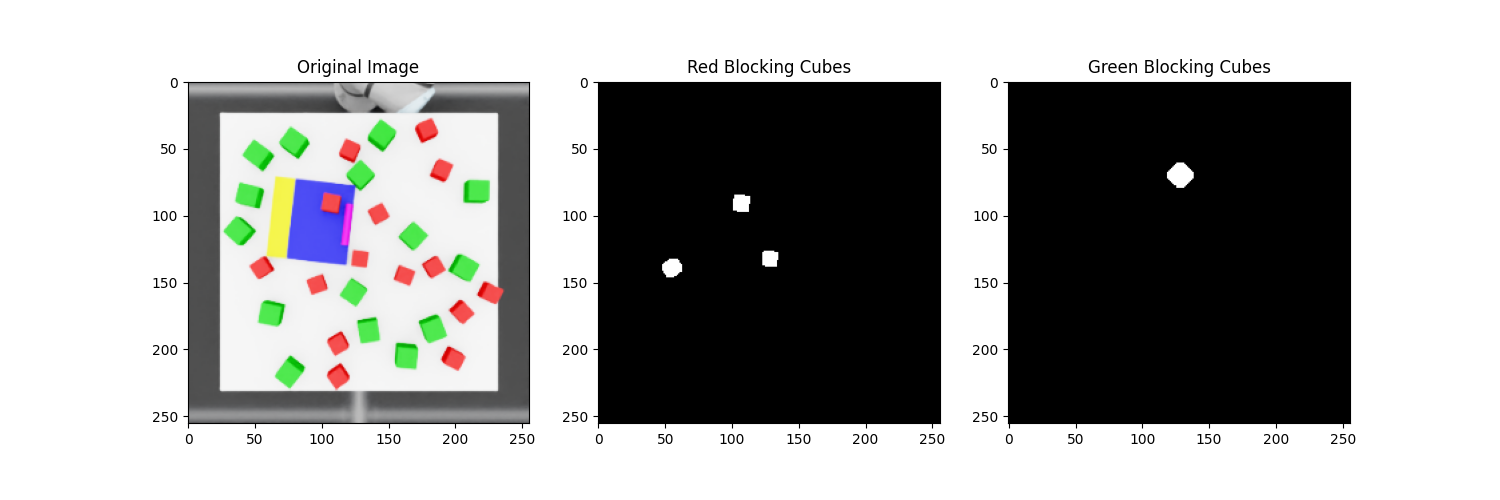
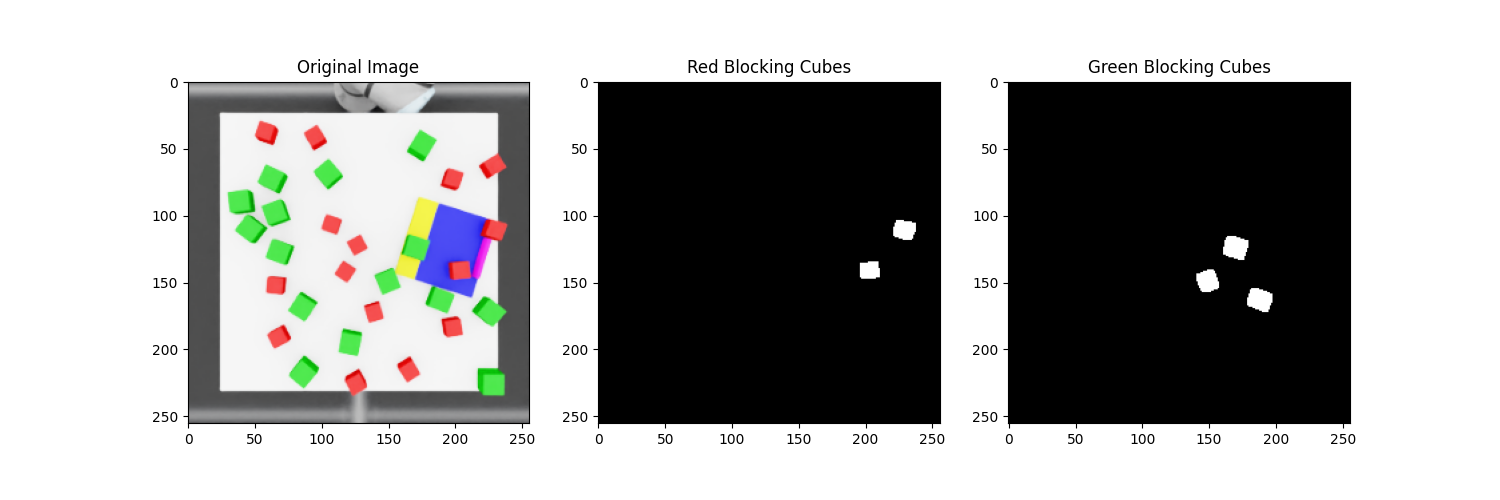
update final

diff --git a/final/run.py b/final/run.py
@@ -81,9 +81,10 @@ class Experiment:
         self.robot_pos = self.robot_pose[:3]
         self.robot_quat = self.robot_pose[3:]
 
-        self.gripper_open_val = 0.0
-        self.gripper_close_val = 0.04 # This is just a guess
-
+        self.gripper_open_val = 0.04
+        self.gripper_close_val = 0.0 # This is just a guess
+        
+ 
 
     def move_robot_joint (self, target_joint_pos, target_gripper_pos, count = 10, time_for_residual_movement = 5):
         '''
@@ -257,6 +258,14 @@ class Experiment:
         '''
         You code goes here.
         '''
+    
+        # Reset the environment (Relies on default states defined in task_envs.py)
+        self.scene.reset()
+        
+        # Update internal robot pose trackers after reset
+        self.robot_pose = self.scene['ur5e'].data.body_state_w[0, self.scene['ur5e'].find_bodies(self.ik_body)[0][0], :7].detach().cpu().numpy()
+        self.robot_pos = self.robot_pose[:3]
+        self.robot_quat = self.robot_pose[3:]
         # birdview_camera intrinsic and extrinsic matrix
         intrinsics = np.squeeze(self.scene["birdview_camera"].data.intrinsic_matrices.detach().cpu().numpy())
         extrinsics = np.array([
@@ -399,7 +408,7 @@ class Experiment:
         # transforms the points from the camera's coordinate system to the global world coordinate system.
         ones = np.ones((points_camera.shape[0], 1), dtype=points_camera.dtype)
         points_world_h = extrinsics @ np.concatenate([points_camera, ones], axis=1).T
-               
+            
         points_world = (points_world_h[:3,:] / np.clip(points_world_h[3,:], 1e-8, None)).T
         pc_world = points_world.reshape(height, width, 3)
         
@@ -409,7 +418,7 @@ class Experiment:
         blue_pixels = blue_mask.flatten().astype(bool)    # Added blue
         yellow_pixels = yellow_mask.flatten().astype(bool)  # Added yellow
         magenta_pixels = magenta_mask.flatten().astype(bool) # Added magenta
-       
+    
         point_colors = np.full((points_world.shape[0], 3), [0.6, 0.6, 0.6])
         point_colors[red_pixels] = [1, 0, 0]
         point_colors[green_pixels] = [0, 1, 0]
@@ -448,10 +457,27 @@ class Experiment:
             pts_red = pts_red[np.isfinite(pts_red).all(axis=1)]
             if pts_red.shape[0] == 0: continue
             
-            centroid_xy_red = np.nanmedian(pts_red[:, :2], axis=0)
+            # 1. 先算出最高点 (Top Z)
             top_z_red = float(np.nanpercentile(pts_red[:, 2], 95))
             low_z_red = float(np.nanpercentile(pts_red[:, 2], 5))
-            stats = {"centroid_xy": centroid_xy_red, "top_z": top_z_red, "low_z": low_z_red, "size_xy": np.nanpercentile(pts_red[:, :2], 95, axis=0) - np.nanpercentile(pts_red[:, :2], 5, axis=0)}
+            
+            # 2. 【关键修正】只取顶部 1.5cm 范围内的点来计算 XY 中心
+            # 这样可以排除掉侧面点对中心的干扰
+            top_slice_mask = pts_red[:, 2] > (top_z_red - 0.015) 
+            pts_red_top = pts_red[top_slice_mask]
+            
+            if pts_red_top.shape[0] > 10: # 确保有足够的点
+                centroid_xy_red = np.nanmedian(pts_red_top[:, :2], axis=0)
+            else:
+                # 如果顶部点太少（异常情况），退回使用所有点
+                centroid_xy_red = np.nanmedian(pts_red[:, :2], axis=0)
+
+            stats = {
+                "centroid_xy": centroid_xy_red, 
+                "top_z": top_z_red, 
+                "low_z": low_z_red, 
+                "size_xy": np.nanpercentile(pts_red[:, :2], 95, axis=0) - np.nanpercentile(pts_red[:, :2], 5, axis=0)
+            }
             
             red_infos.append({"cid": cid, "area": area, "stats": stats})
 
@@ -555,6 +581,122 @@ class Experiment:
         
         print(f"Found {len(red_blocking_infos)} red and {len(green_blocking_infos)} green blocking cubes.")
 
+        # 1. 找到 Door Mask 的 3D 中心 (Find 3D center of the door)
+        # 获取 door_mask 中所有像素的坐标
+        door_indices = np.nonzero(door_mask)
+        # 从 pc_world 中提取这些像素对应的 3D 点
+        door_points_3d = pc_world[door_indices]
+        # 过滤掉无效点 (inf/nan)
+        door_points_3d = door_points_3d[np.isfinite(door_points_3d).all(axis=1)]
+        door_center_3d = np.mean(door_points_3d, axis=0)
+        print(f"Door Center 3D: {door_center_3d}")
+        plt.figure()
+        plt.imshow(door_mask, cmap='gray')
+        plt.title('Door Mask (Dilated)')
+        plt.savefig("door_mask.png")
+        plt.close()
+        print("Saved door_mask.png")
+
+        blocking_ids = [info['cid'] for info in red_blocking_infos]
+        
+        # 筛选出 safe cubes (不在 blocking 列表中的)
+        safe_red_infos = [info for info in red_infos if info['cid'] not in blocking_ids]
+        
+        # 定义距离计算函数
+        def get_distance_to_door(info):
+            stats = info['stats']
+            # 使用物体的质心 (Centroid XY) 和顶部高度 (Top Z) 组成 3D 坐标
+            cube_pos = np.array([stats['centroid_xy'][0], stats['centroid_xy'][1], stats['top_z']])
+            return np.linalg.norm(cube_pos - door_center_3d)
+        safe_red_infos.sort(key=get_distance_to_door, reverse=True)
+        
+        print(f"Safe Red Cubes available: {len(safe_red_infos)}")
+
+        # 3. 搬运循环 (Pick and Place Loop)
+        # 我们只能搬运 min(blocking数量, safe数量) 个物体
+        num_to_move = min(len(red_blocking_infos), len(safe_red_infos))
+        
+        
+
+        fixed_quat = self.robot_quat.copy() 
+        
+        # 定义高度参数
+        z_travel_height = 0.50  # 搬运过程中的高空飞行高度 (非常安全)
+        z_hover_height = 0.35   # 准备抓取/放置时的悬停高度
+        
+        # 抓取高度微调 (根据你之前的需求，这里设为负数表示“悬空抓取”，正数表示“压下去抓”)
+        # 如果你想“垂直下降再抓住”，建议设为 0 或者 -0.005 (稍微接触表面)
+        z_offset_grasp = 0.005 
+        z_offset_stack = 0.025
+
+        for i in range(1):
+            block_cube = red_blocking_infos[i]
+            target_base = safe_red_infos[i]
+            
+            print(f"Moving Blocking Cube ID {block_cube['cid']} to Safe Cube ID {target_base['cid']}")
+            
+            # --- 准备抓取数据 ---
+            # 抓取位置
+            pick_xy = block_cube['stats']['centroid_xy']
+            pick_z = block_cube['stats']['top_z'] 
+            
+            # 放置位置 (目标是 Safe Cube 的顶部)
+            place_xy = target_base['stats']['centroid_xy']
+            place_z = target_base['stats']['top_z'] + z_offset_stack
+            
+            # --- 动作序列 ---
+            # 1. 确保夹爪张开
+            self.open_gripper()
+
+            # 2. 提升到安全高度 (Lift to Travel Height)
+            # 先在当前位置垂直抬升，避免横向撞击
+            current_xy = self.robot_pos[:2]
+            self.move_robot_ik(np.concatenate([current_xy, [z_travel_height], fixed_quat]))
+
+            # 3. 平移到目标正上方 (Move XY to Hover)
+            # 在高空平移，此时 Z 轴不变，只变 XY
+            hover_pose = np.concatenate([pick_xy, [z_travel_height], fixed_quat])
+            self.move_robot_ik(hover_pose)
+            
+            # 如果需要，可以再降到一个较低的悬停点 (Optional Pre-grasp Hover)
+            pre_grasp_pose = np.concatenate([pick_xy, [z_hover_height], fixed_quat])
+            self.move_robot_ik(pre_grasp_pose)
+
+            # 4. 垂直下降 (Vertical Descent)
+            # 这里的关键是：XY 坐标不变，只改变 Z，且使用 fixed_quat 锁死姿态
+            print("Descending vertically...")
+            pick_pose = np.concatenate([pick_xy, [pick_z], fixed_quat])
+            self.move_robot_ik(pick_pose)
+            self.sim_wait(15) # 等待稳定
+
+            # 5. 抓取 (Grasp)
+            self.close_gripper()
+            self.sim_wait(20)
+
+            # 6. 垂直抬起 (Vertical Lift)
+            self.move_robot_ik(pre_grasp_pose)      # 回到低悬停点
+            self.move_robot_ik(hover_pose)          # 回到高空飞行点
+
+            # 7. 平移到放置点正上方 (Move to Place)
+            place_hover_pose = np.concatenate([place_xy, [z_travel_height], fixed_quat])
+            self.move_robot_ik(place_hover_pose)
+            
+            place_pre_pose = np.concatenate([place_xy, [z_hover_height], fixed_quat])
+            self.move_robot_ik(place_pre_pose)
+
+            # 8. 垂直下降放置 (Vertical Descent to Place)
+            place_pose = np.concatenate([place_xy, [place_z], fixed_quat])
+            self.move_robot_ik(place_pose)
+            self.sim_wait(15)
+
+            # 9. 松开 (Release)
+            self.open_gripper()
+            self.sim_wait(20)
+
+            # 10. 垂直撤离 (Retreat)
+            self.move_robot_ik(place_pre_pose)
+            self.move_robot_ik(place_hover_pose)
+        print("Red Cube clearing completed.")
         # steps simulation but does not command the robot
         while simulation_app.is_running():
 
